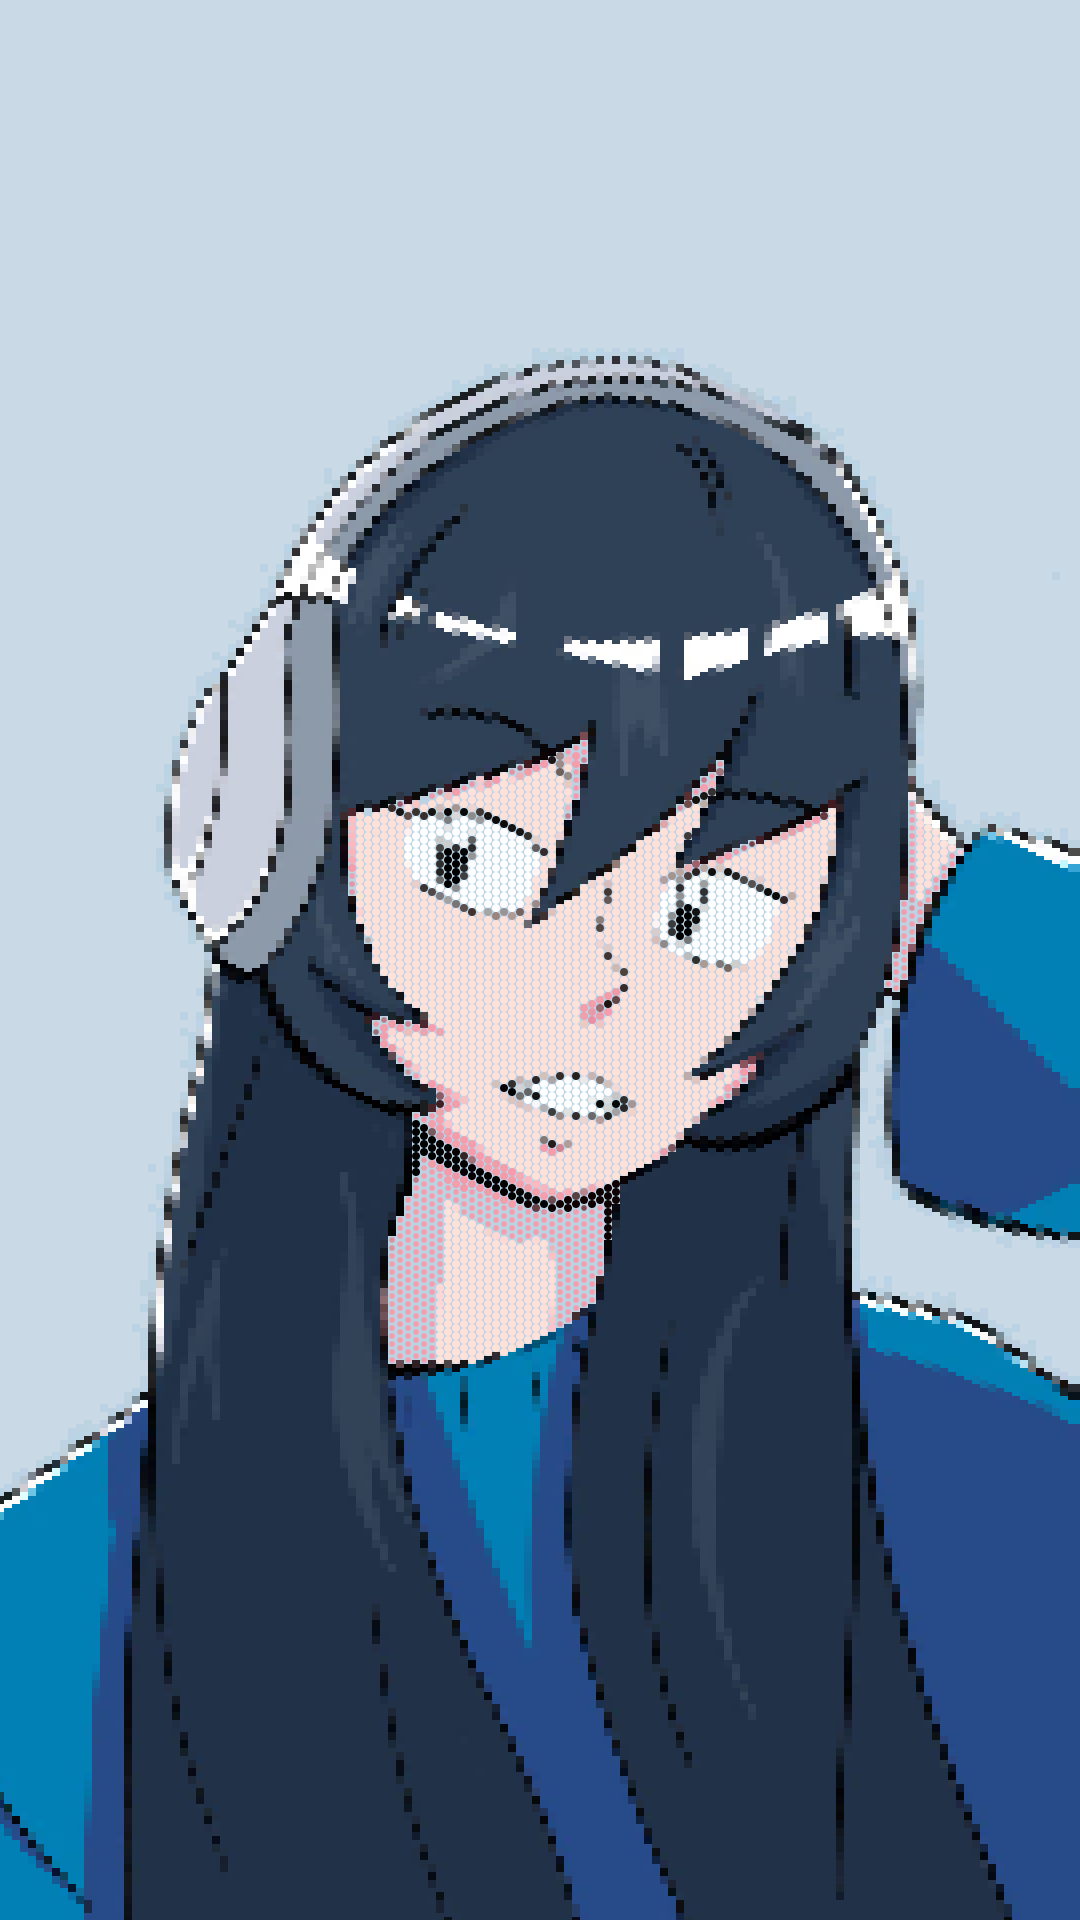
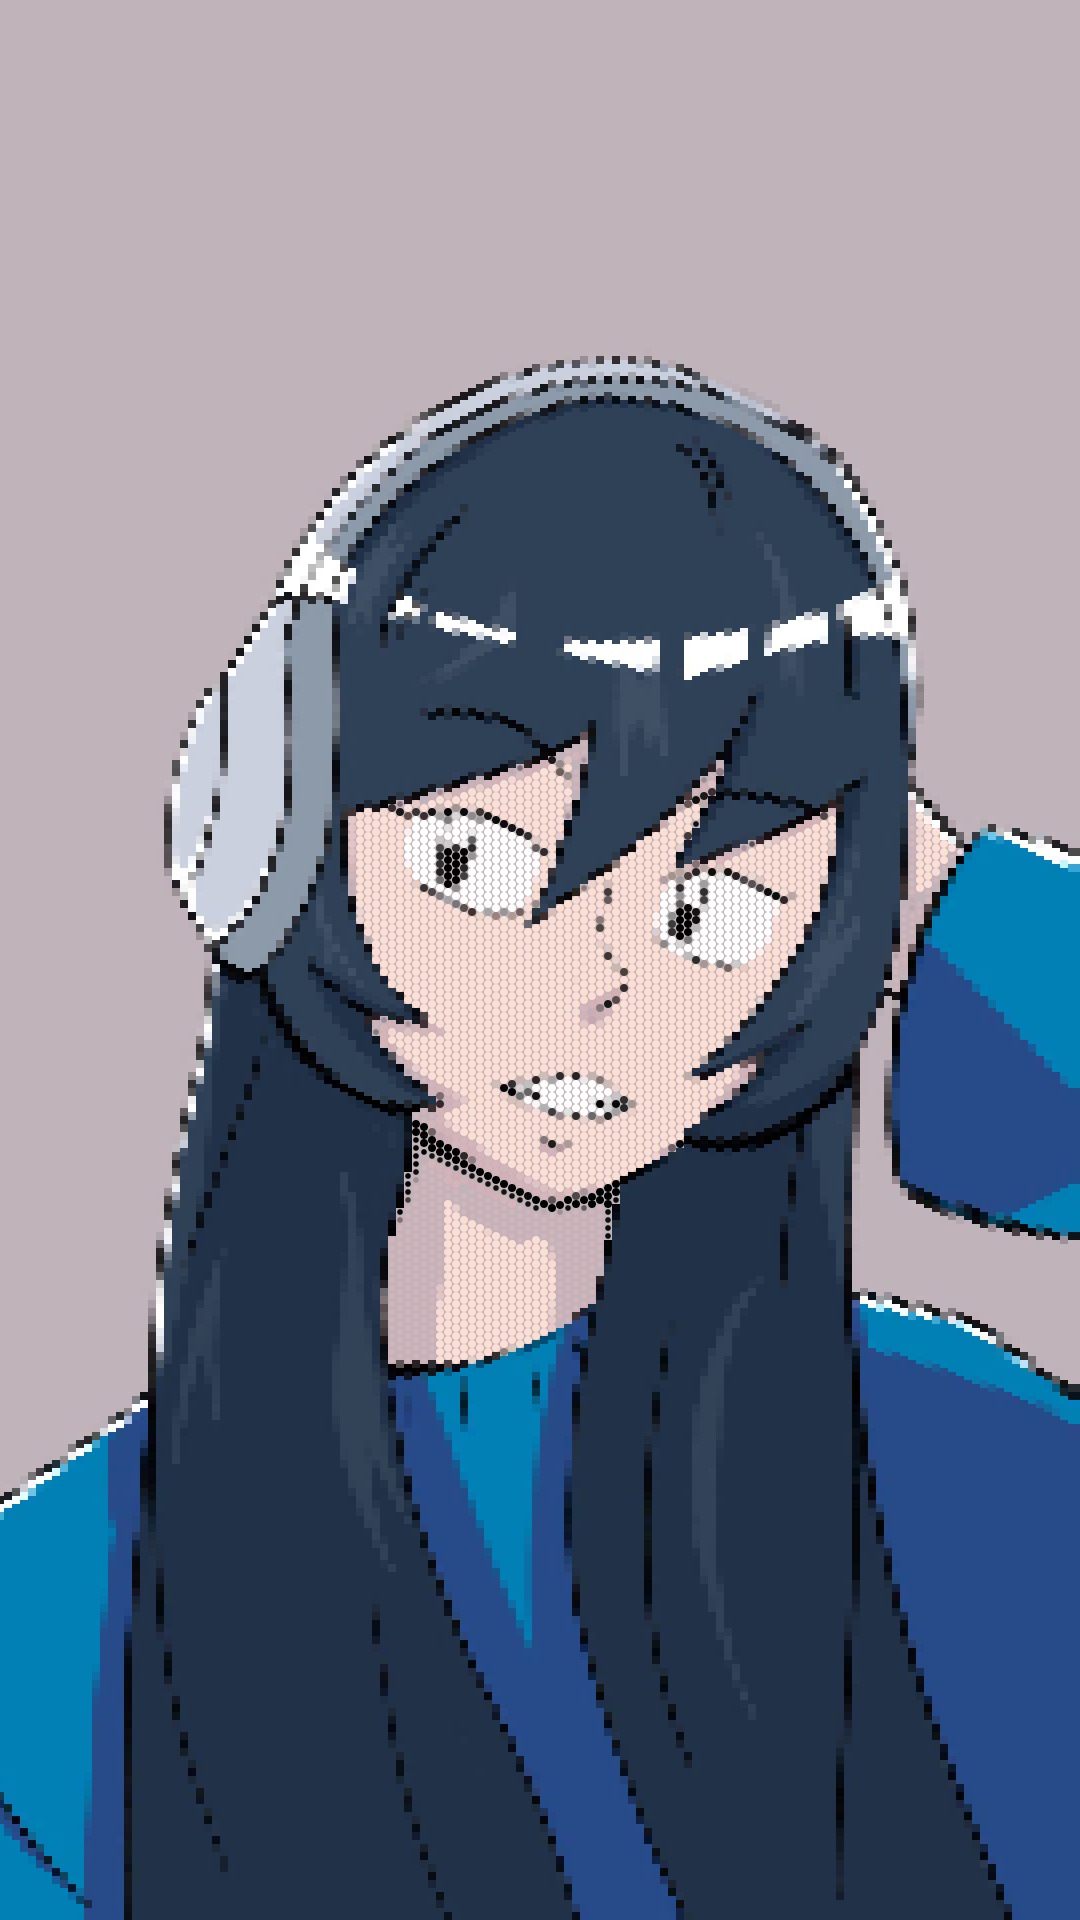
update
changed skin colour and bg colour

diff --git a/sketch.js b/sketch.js
@@ -13,7 +13,7 @@ function setup () {
 
   imageMode(CENTER);
   noStroke();
-  background(188,211,227);
+  background(192,179,186);
   // background(255);
   sourceImg.loadPixels();
   maskImg.loadPixels();
